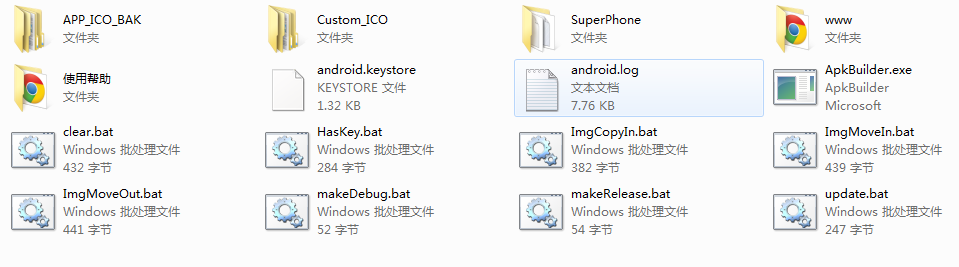
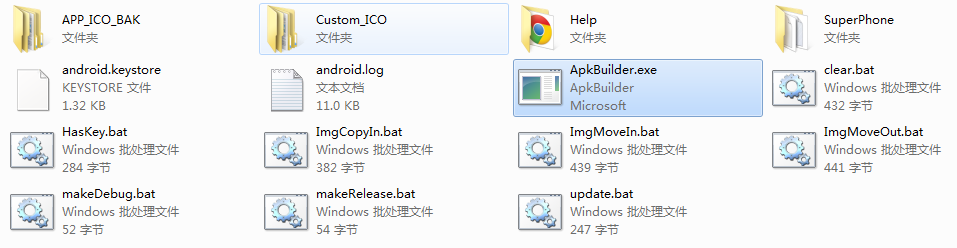
修改帮助文档
帮助用户更好地使用工具

diff --git a/Help/ApkPackTool.html b/Help/ApkPackTool.html
@@ -10,29 +10,80 @@
             <div class='page-header'>
                 <h1 style="margin-top: 2%">SuperMap iClient for JavaScript APK打包工具</h1>
                 <hr />
-                <h2>一、简介</h2>
+                 <h2>一、系统要求</h2>
+                <p>
+                工具要求系统搭建了Java、Android和Ant环境，需要配置环境变量,这里需要注意的就是不要使
+                用JDK1.7的版本，因为由于不兼容打成的apk文件可能无法使用。
+                </p>
+				<p>
+                环境变量中的Path下最终应该包含以下路径：
+                </p>
+<pre>
+C:\Program Files (x86)\Java\jdk1.6.0_10\bin;D:\android-sdk-windows\tools;D:\apache-ant-1.8.4\bin
+</pre>
+                <p><strong>1.搭建Java环境</strong>
+                </p>
+				<p>
+                首先，下载Java开发工具 <a href="http://www.oracle.com/technetwork/java/javase/downloads/jdk6-downloads-1637591.html" target="new">JDK 1.6</a>，
+				选择与个人系统相符合的版本，下载完成后双击安装。
+                </p>
+				<p>
+                然后，找到Java目录下的bin文件夹"C:\Program Files (x86)\Java\jdk1.6.0_10\bin",复制该目录配置到系统环境变量的Path下，如图：
+                </p>
+				<div class="pageImage"><img src="img/8.png"></div>
+				<p>
+                至此，Java环境搭建完毕。
+                </p>
+                <p><strong>2.搭建Android环境</strong>
+                </p> 
+				<p>
+				首先，下载Android开发工具 <a href="http://developer.android.com/sdk/index.html" target="new">Android SDK For Windows</a>，
+				下载完成后双击安装。
+				</p>
+				<p>
+                然后，找到android-sdk-windows目录下的tools文件夹"D:\android-sdk-windows\tools",复制该目录配置到系统环境变量的Path下，如图：
+                </p>
+				<div class="pageImage"><img src="img/9.png"></div>
+				<p>
+                至此，Android环境搭建完毕。
+                </p>
+                <p><strong>3.搭建Ant环境</strong>
+                </p>
+				<p>
+				首先，下载Apache Ant辅助打包工具 <a href="http://ant.apache.org/bindownload.cgi" target="new">Apache Ant</a>，
+				下载完成，解压即可。
+				</p>
+				<p>
+                然后，找到Apache Ant目录下的bin文件夹"D:\apache-ant-1.8.4\bin",复制该目录配置到系统环境变量的Path下，如图：
+                </p>
+				<div class="pageImage"><img src="img/10.png"></div>
+				<p>
+                至此，Ant环境搭建完毕，需要注意的是Ant环境依赖于Java环境，所以在此之前一定要把Java环境搭建好。
+                </p>
+                <h2>二、简介</h2>
                 <p>
                 使用这个工具可以检测当前环境是否符合编译条件，系统环境检测成功以后进入工具主界面，再经过简单的配置可以
                 生成灵活生成apk文件，进而在Android系统上安装运行。
                 </p>
-                <h2>二、使用说明</h2>
+                <h2>三、使用说明</h2>
                 <p>文件结构如下：
                 </p>
                 <div class="pageImage"><img src="img/1.png" style="width:100%;"></div>  
-                <p>双击ApkBuilder.exe文件开始检测用户环境，查看是否符合编译条件，环境符合后进入主功能界面。
+                <p><strong>1.双击ApkBuilder.exe文件开始检测用户环境，查看是否符合编译条件，环境符合后单击"下一步"进入主功能界面。</strong>
                 </p>  
-                <p>主界面有一系列操作指导，可以帮助你快速构建自己的Apk应用
+				<div class="pageImage"><img src="img/11.png"></div>    
+                <p><strong>2.主界面有一系列操作指导，可以帮助你快速构建自己的Apk应用</strong>
                 </p> 
-                 <div class="pageImage"><img src="img/5.png"></div>    
-                <p>然后单击“生成Apk文件”按钮即可生成Apk文件</p>
+                 <div class="pageImage"><img src="img/7.png"></div>    
+                <p><strong>3.然后单击"生成Apk文件"按钮即可生成Apk文件</strong>
+				</p>
                  <div class="pageImage"><img src="img/6.png"></div>    
                 <h3>2.1、自定义签名</h3>
                 <p>要想使Android应用程序在真机上运行，需要对apk（Android应用程序的执行文件，
                 相当于Symbian程序的sis/sisx或Java ME程序的jar文件）文件进行签名。可以通过命
                 令行或ADT插件方式对apk文件进行签名。
                 </p>
-                <p>
-                (1).使用keytool生成专用密钥（Private Key）文件。
+                <p><strong>1.使用keytool生成专用密钥（Private Key）文件。</strong>
                 </p>
                 <p>
                 其中androidguy-release.keystore表示要生成的密钥文件名，可以是任意合法的文件名。
@@ -44,12 +95,11 @@
 <pre>
 keytool -genkey -v -keystore androidguy-release.keystore -alias androidguy -keyalg RSA -validity 30000
 </pre>
-				<p>所以真正使用的时候是：</p>
+                <p>所以真正使用的时候是：</p>
 <pre>
 keytool -genkey -v -keystore androidguy-release.keystore -alias androidguy-release.keystore -keyalg RSA -validity 30000
 </pre>
-                <p>
-                (2).以下是作者输入的信息作为参考。
+                <p><strong>2.以下是作者输入的信息作为参考。</strong>
                 </p>
                 <p>
                 在输入完上面的信息后，在当前目录下会生成一个androidguy-release.keystore文件。这个文件就是专用密钥文件。
@@ -79,21 +129,12 @@ CN=li, OU=supermap, O=supermap, L=chengdu, ST=sichuan, C=CN 正确吗？
 [正在存储 androidguy-release.keystore] 
 </pre>
                 <p>          
-                <h3>2.2更换图标</h3>
+                <h3>2.2、更换图标</h3>
                 <p>更改图标的操作十分简单，只需要你将四种分辨率的图标分别放到Custom_ICO文件夹中的四个文件夹中即可。
                <strong>注意图标的名字必须是ic_launcher.png且必须为png格式的图标。</strong>
-               然后双击builder.bat文件，生成以后的apk文件安装后显示的图标既是用户自定义的图标
+               然后双击ApkBuilder.exe文件，生成以后的apk文件安装后显示的图标既是用户自定义的图标
                 </p>
                <div class="pageImage"> <img src="img/4.png" style="width:100%;"></div>        
-
-                <h2>三、系统要求</h2>
-                <p>
-                工具要求系统搭建了java、Android和Ant环境，需要配置环境变量,这里需要注意的就是不要使用JDK1.7的版本，因为由于不兼容打成的apk文件可能无法使用
-                </p>
-                <pre>
-C:\Program Files (x86)\Java\jdk1.6.0_10\bin;D:\android-sdk-windows\tools;D:\apache-ant-1.8.4\bin
-                </pre>
-               
                 </p>
             </div>
             <div class='footer'>

diff --git a/Help/css/style.css b/Help/css/style.css
@@ -55,7 +55,7 @@ p {
 	margin: 0 0 9px;
 	font-family: "Helvetica Neue", Helvetica, Arial, sans-serif;
 	font-size: 13px;
-	line-height: 18px;
+	line-height: 22px;
 }
 h1, h2, h3, h4, h5, h6 {
 	margin: 0;
@@ -112,8 +112,8 @@ pre {
 	display: block;
 	padding: 8.5px;
 	margin: 0 0 9px;
-	font-size: 12.025px;
-	line-height: 18px;
+	font-size: 12px;
+	line-height: 20px;
 	word-break: break-all;
 	word-wrap: break-word;
 	white-space: pre;
